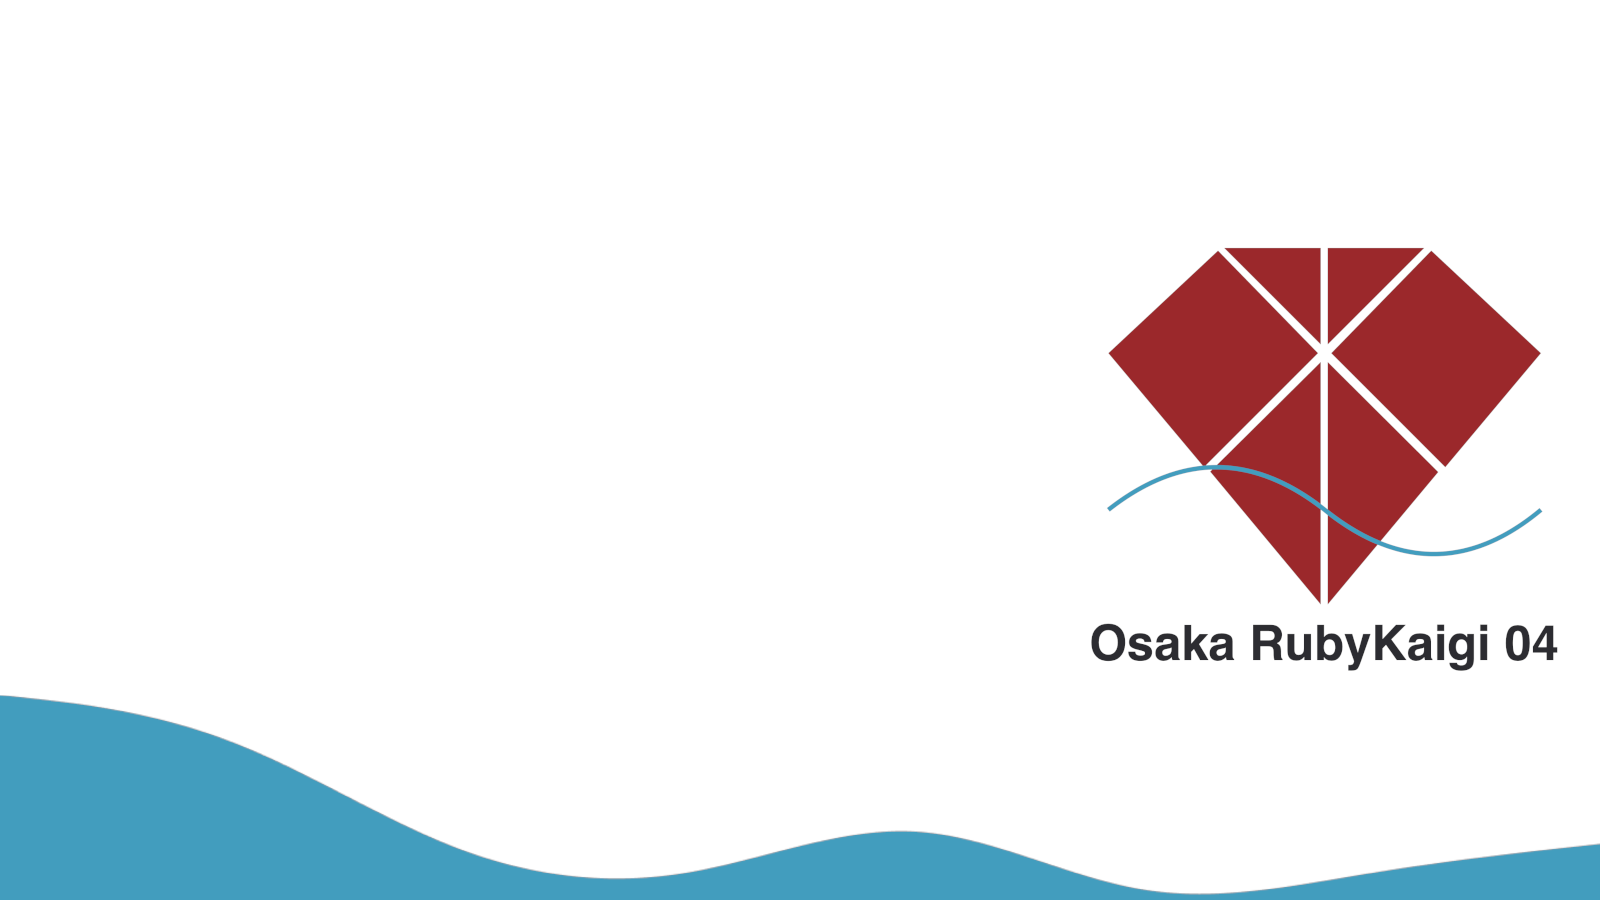
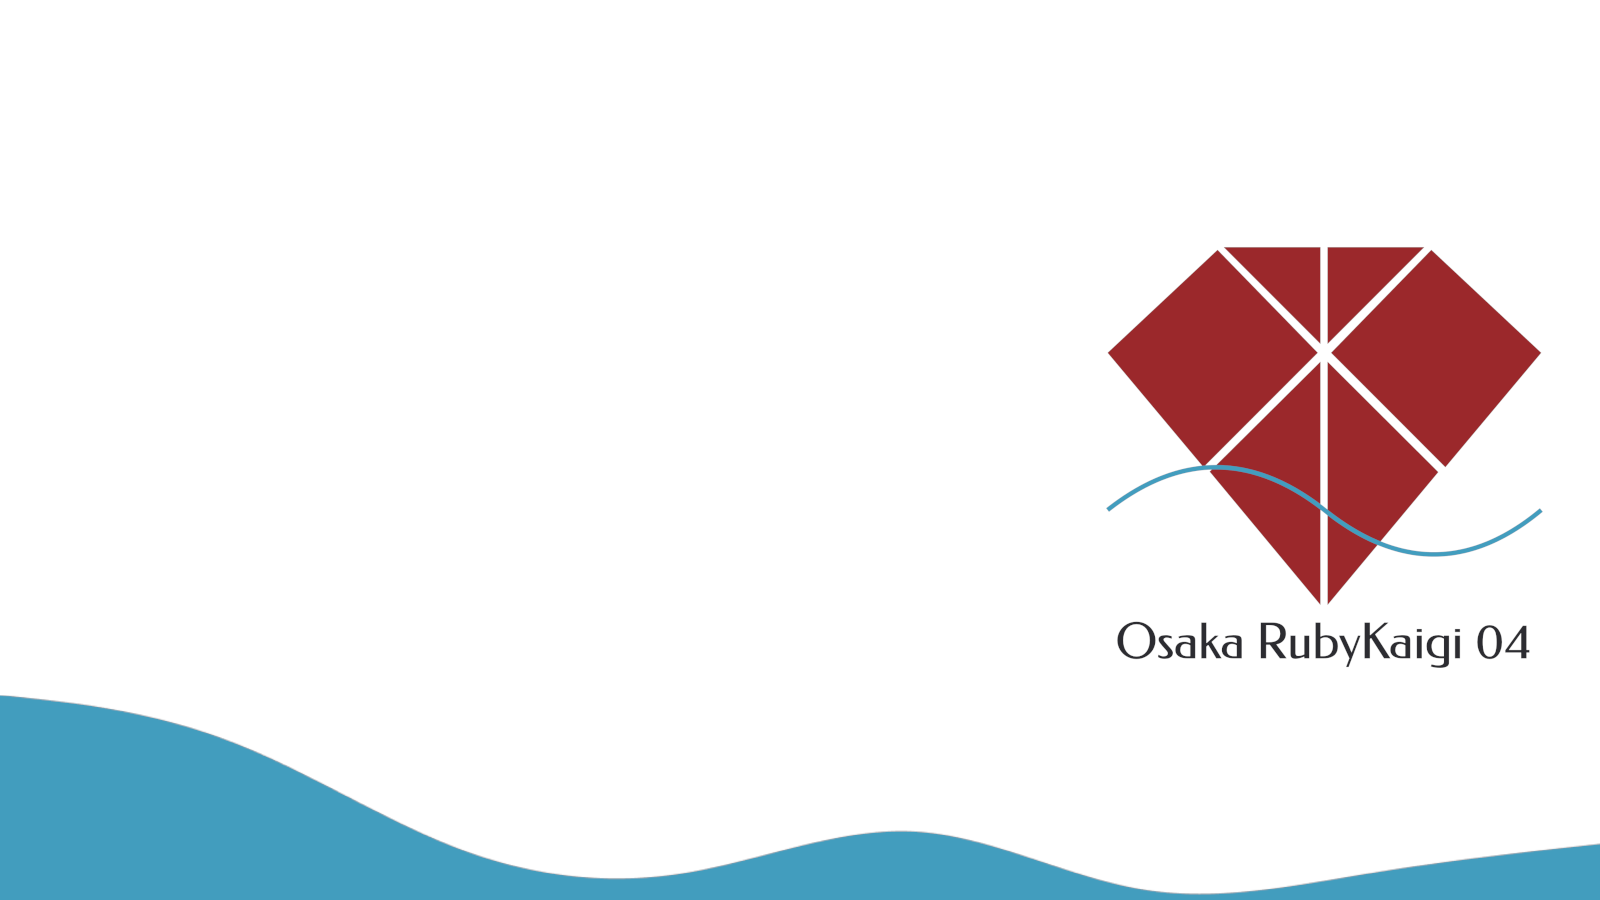
Update theme

Changed region(s): [[0.6875, 0.6844, 0.9688, 0.7467]]

diff --git a/theme.rb b/theme.rb
@@ -4,11 +4,11 @@
 
 base_color             = '#333333'
 accent_color           = '#5a9cbb'
-@default_font          = 'Federo'
+@default_font          = 'Roboto'
 @font_family           = find_font_family(@default_font)
 @bold_font             = 'Noto Sans JP'
 @bold_font_family      = find_font_family(@bold_font)
-@monospace_font        = 'HackGen'
+@monospace_font        = 'Ricty'
 @monospace_font_family = find_font_family(@monospace_font)
 
 @default_item1_mark_color = accent_color
@@ -24,6 +24,7 @@ accent_color           = '#5a9cbb'
 @x_small_font_size    = screen_size(3 * Pango::SCALE)
 @xx_small_font_size   = screen_size(2.8 * Pango::SCALE)
 @xxx_small_font_size  = screen_size(2.5 * Pango::SCALE)
+zero_font_size        = @x_small_font_size / 20
 @script_font_size            = @x_small_font_size
 @large_script_font_size      = @small_font_size
 @x_large_script_font_size    = @large_font_size
@@ -37,6 +38,11 @@ accent_color           = '#5a9cbb'
 
 @title_slide_background_image = 'image/title_background.png'
 @slide_background_image = 'image/normal_background.png'
+
+@image_caption_color = base_color
+@default_emphasis_color = accent_color
+
+@foot_text_block_line_width = 0
 
 set_foreground(base_color)
 # set_background(@default_background)
@@ -84,7 +90,7 @@ end
 match(TitleSlide, Title) do |titles|
   titles.margin_left = -360
   titles.padding_top = @space * 6
-  titles.prop_set("font-family", @bold_font)
+  titles.prop_set("font-family", 'Roboto-bold')
   titles.prop_set("size", @xxx_large_font_size)
   titles.prop_set("weight", "bold")
 end
@@ -116,6 +122,32 @@ match(Slide, HeadLine) do |heads|
   heads.margin_bottom = 40
   heads.prop_set("size", @x_large_font_size)
   heads.prop_set("weight", "SemiBold")
+end
+
+match("**", ReferText) do |texts|
+  texts.prop_set("foreground", base_color)
+end
+
+match("**", FootTextBlock) do |text_block|
+  text_block.margin_bottom = 0
+  text_block.prop_set("foreground", base_color)
+  text_block.prop_set("size", @xxx_small_font_size)
+end
+
+match("**", FootText) do
+  each do |text|
+    if text["order_added"]
+      order_text = text.elements.first
+      order_text.prop_set("foreground", "white")
+      order_text.prop_set("size", zero_font_size)
+    end
+  end
+end
+
+match("**", Footnote) do |footnote|
+  footnote.margin_bottom = 0
+  footnote.prop_set("foreground", "white")
+  footnote.prop_set("size", zero_font_size)
 end
 
 match(Slide) do |slides|
